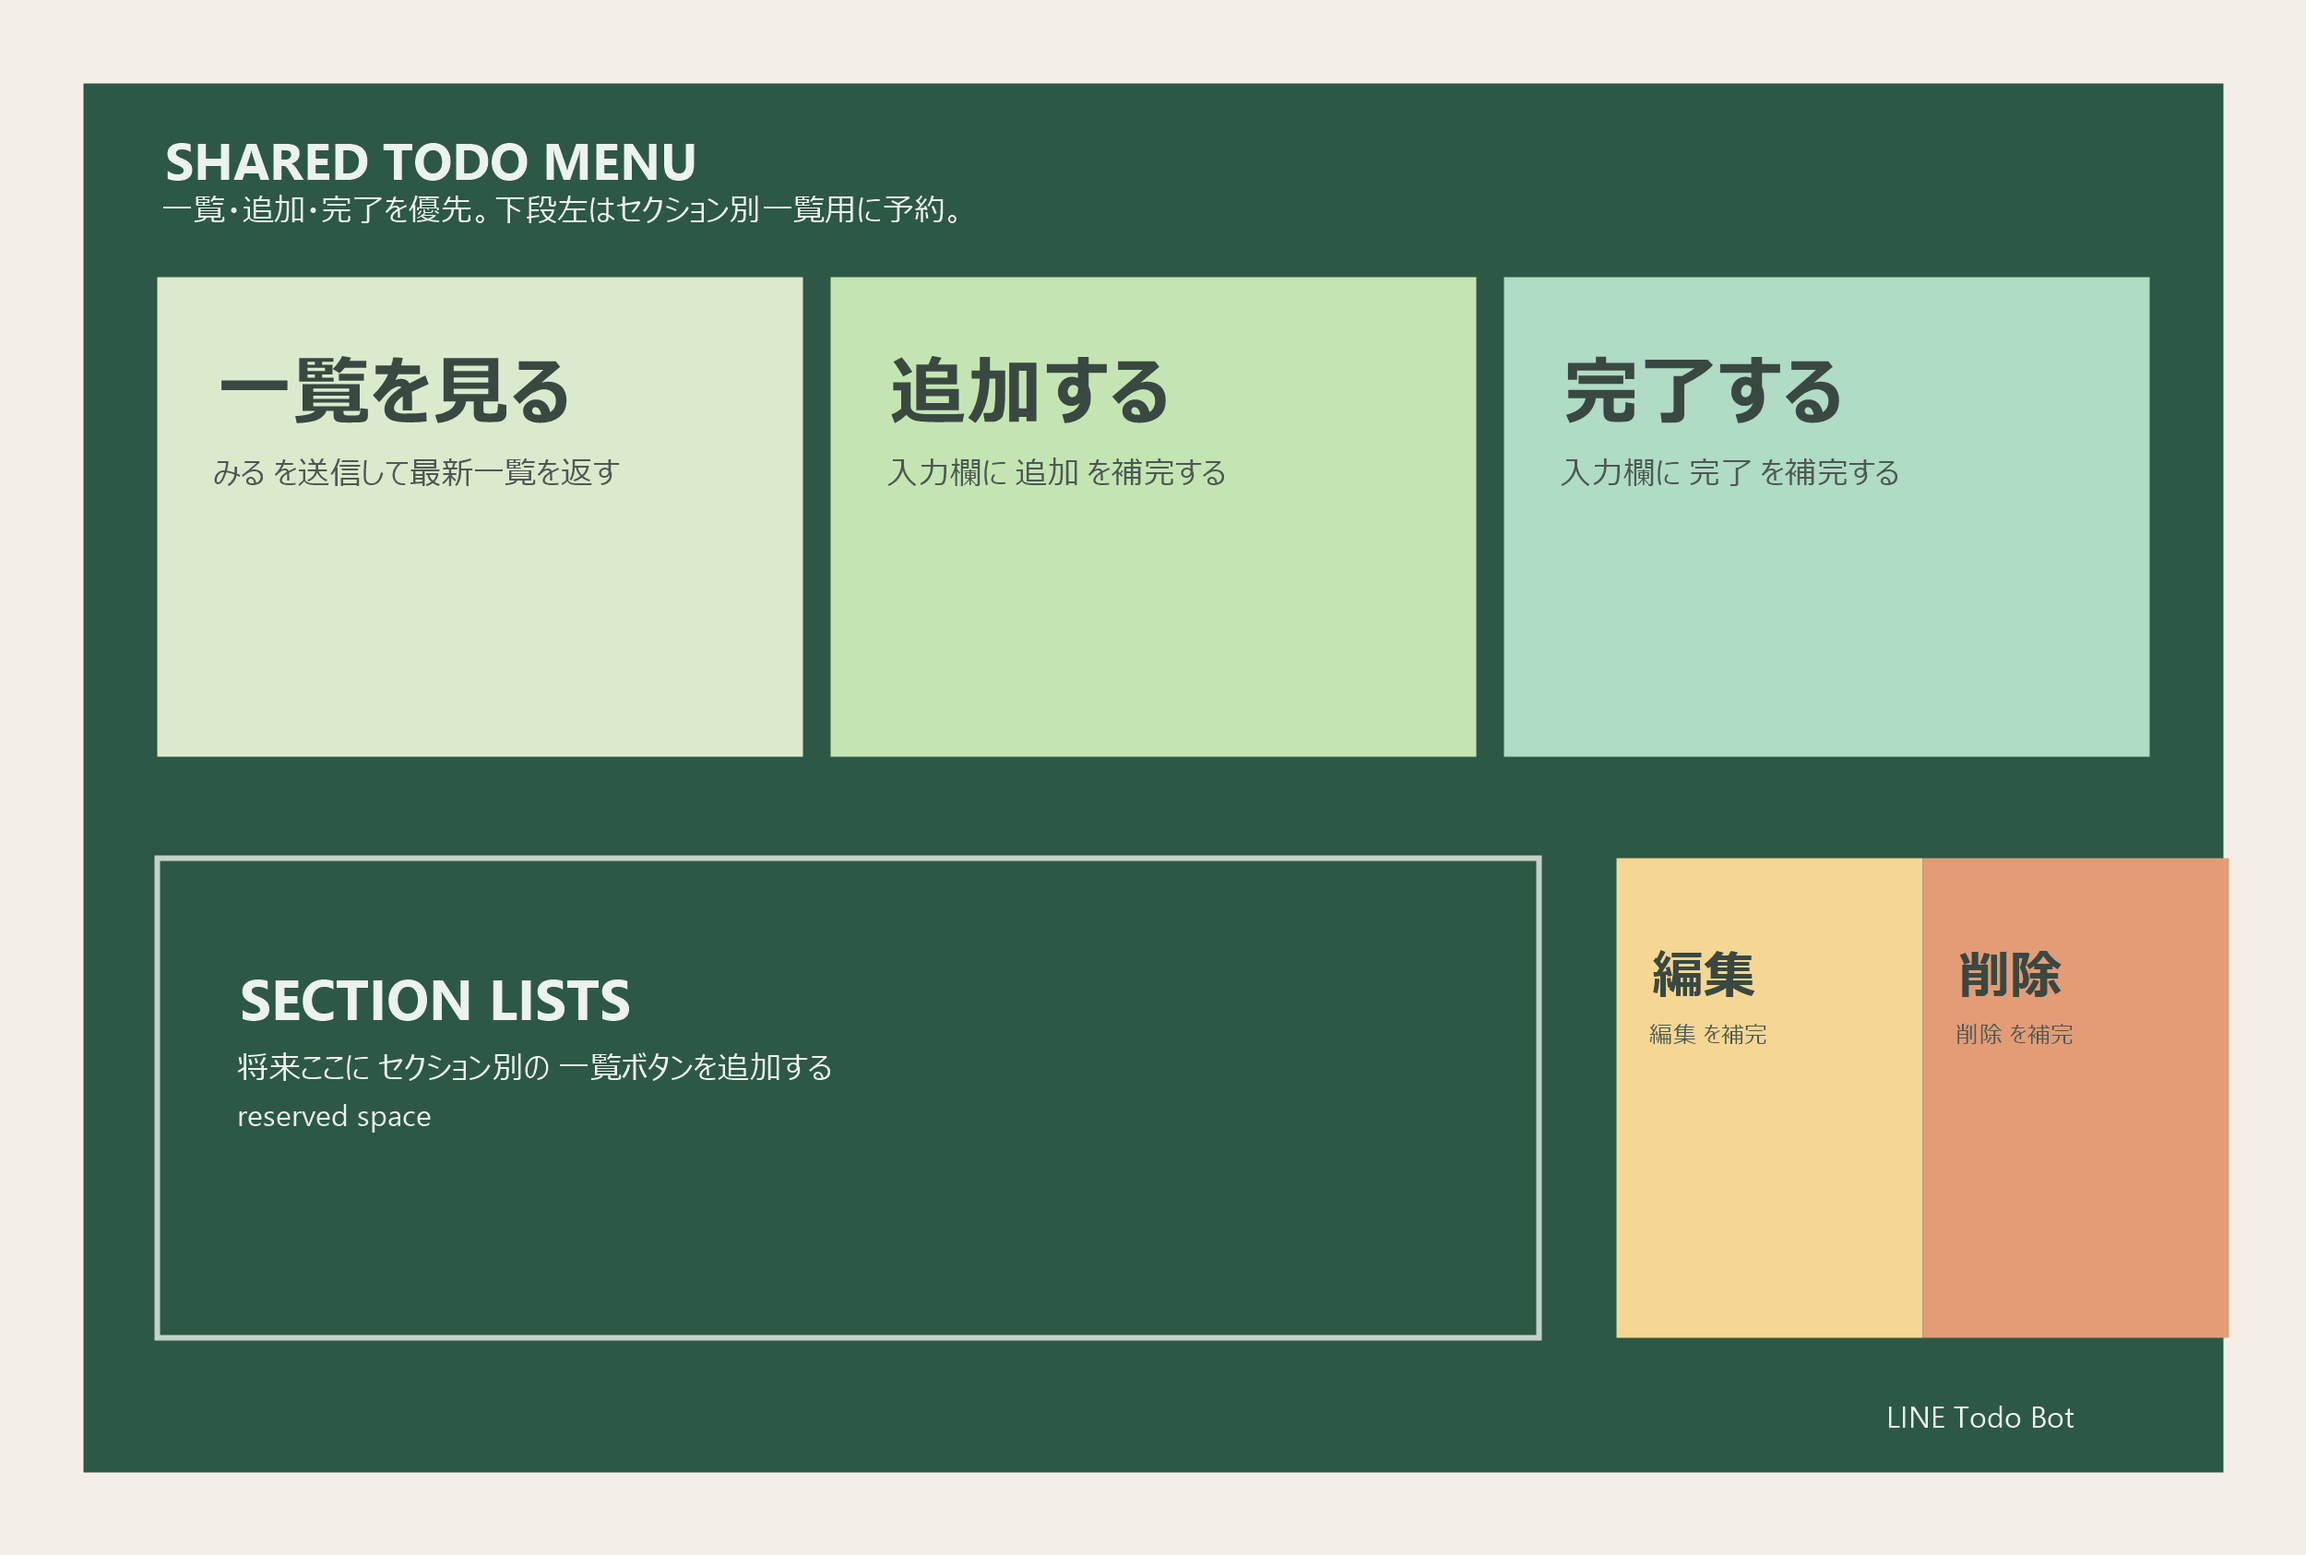
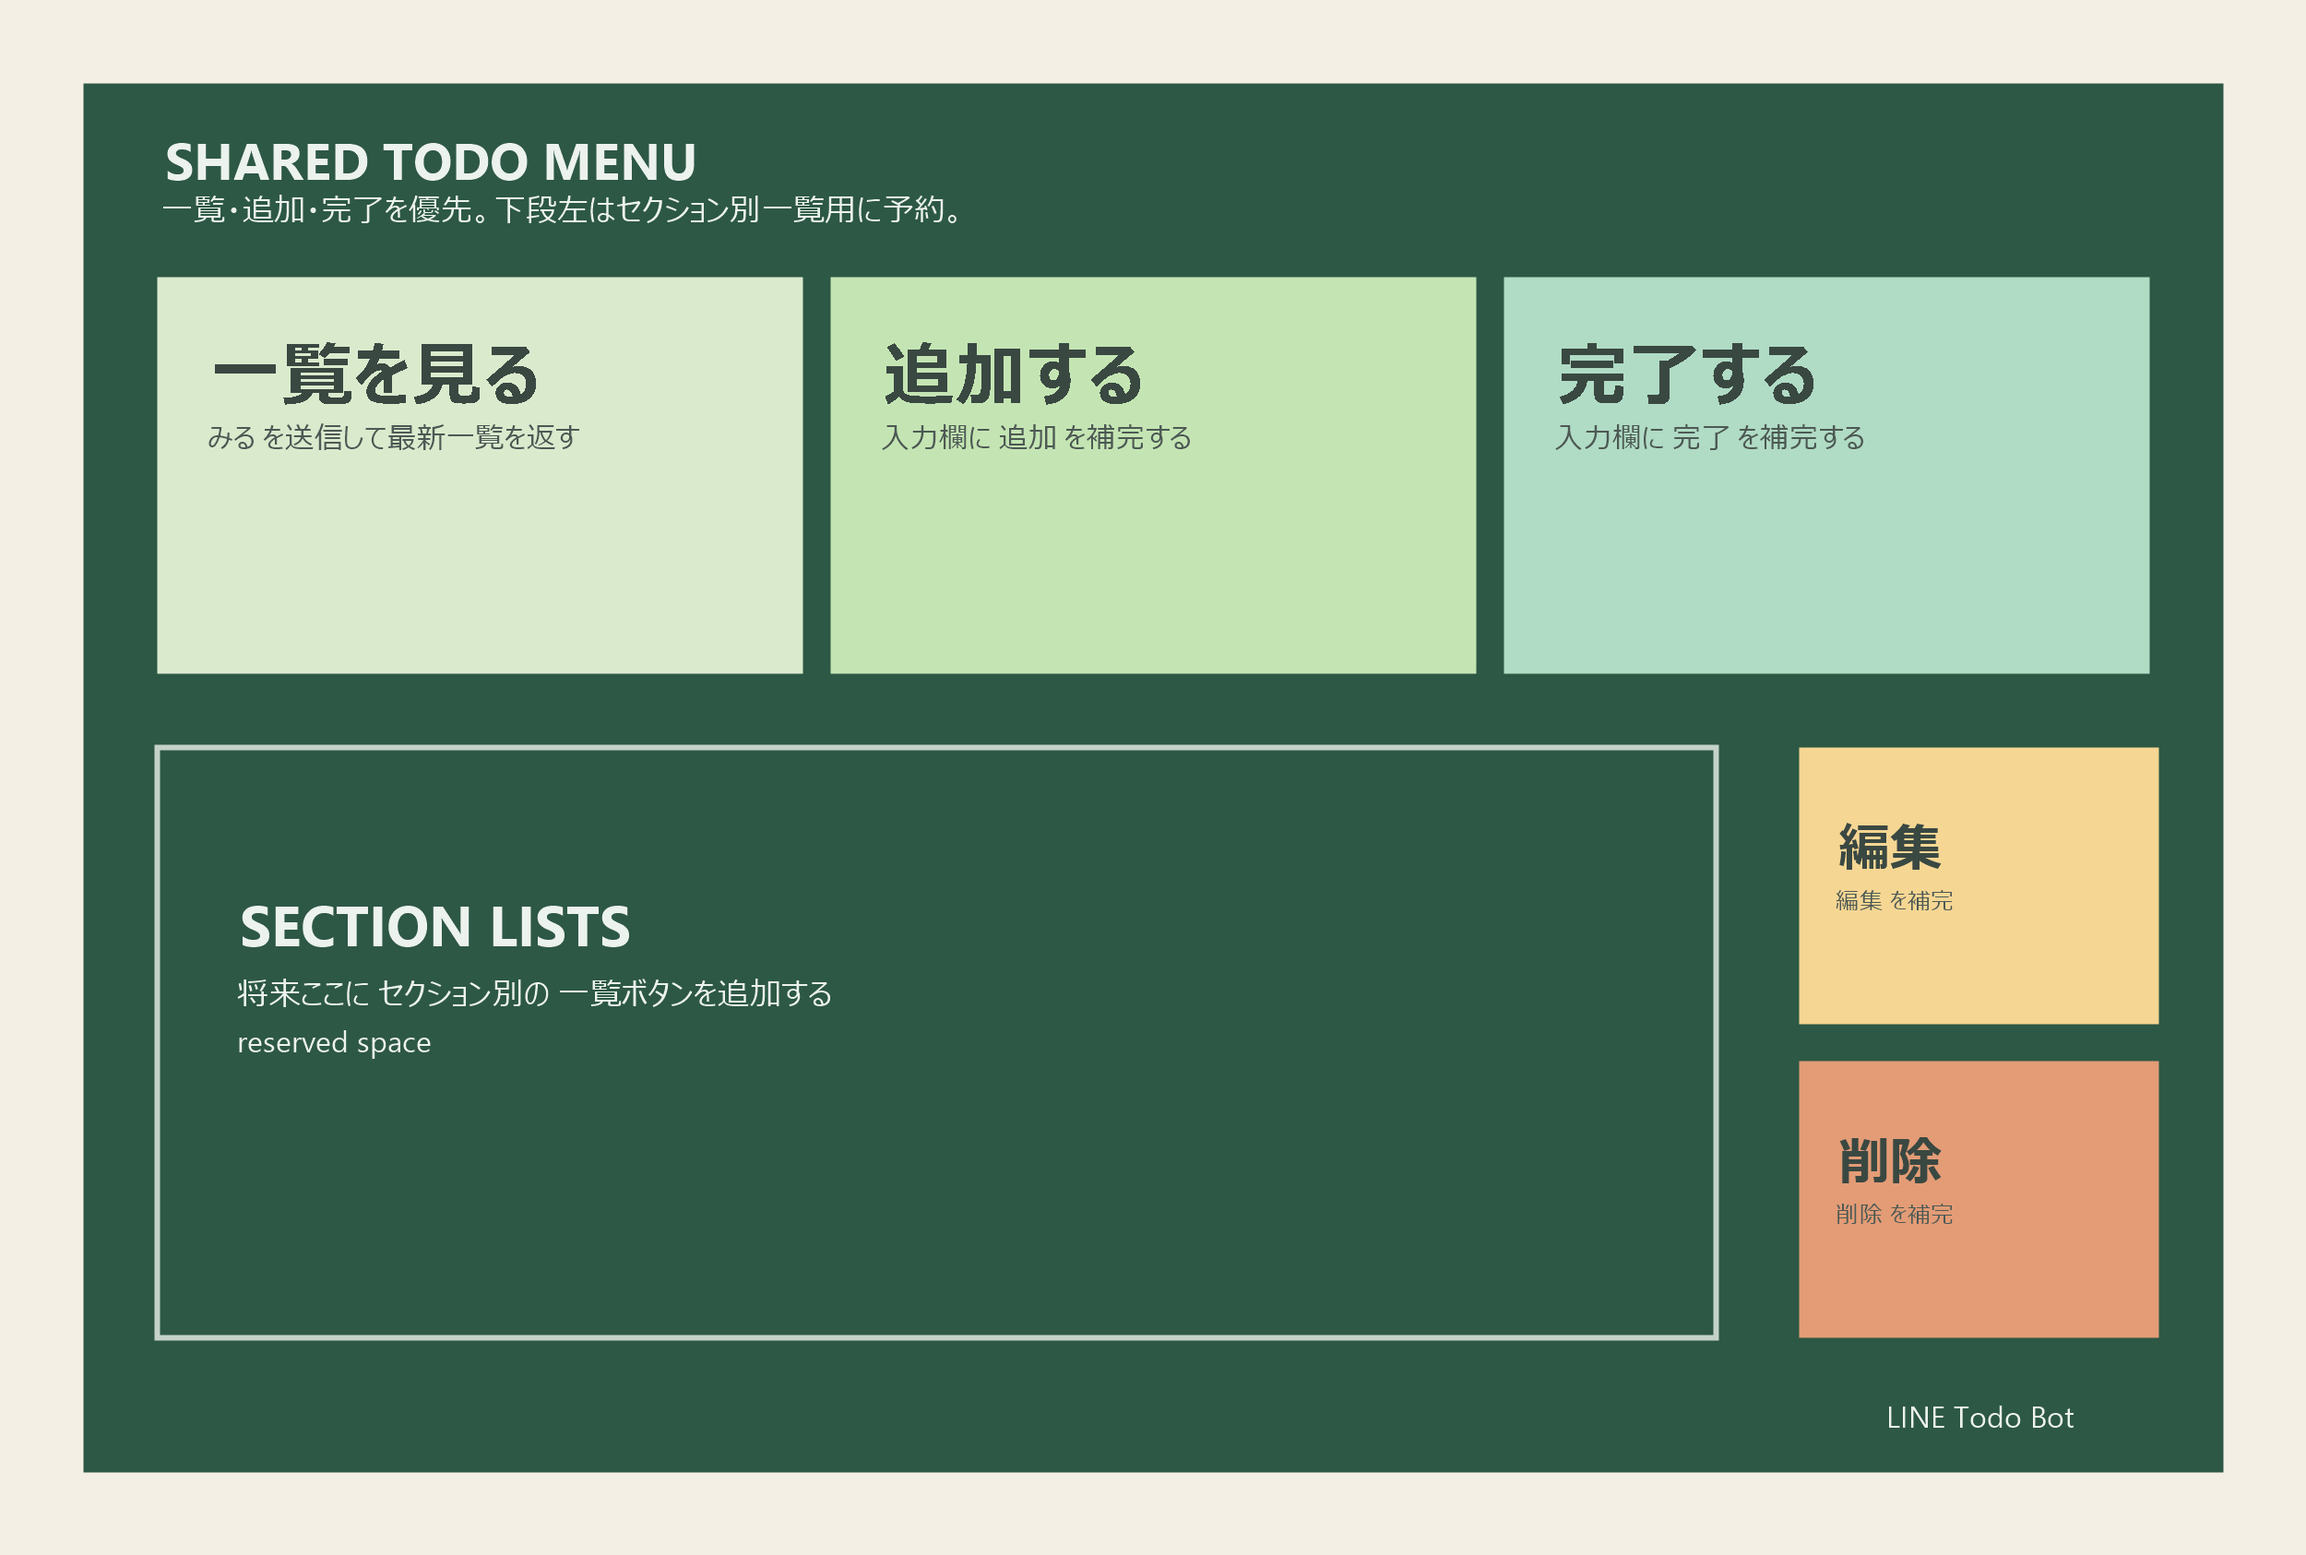
style: adjust rich menu layout

diff --git a/app/test/rich-menu-config.test.ts b/app/test/rich-menu-config.test.ts
@@ -28,7 +28,7 @@ describe("default rich menu definition", () => {
             x: 0,
             y: 0,
             width: 834,
-            height: 843
+            height: 720
           },
           action: {
             type: "message",
@@ -41,7 +41,7 @@ describe("default rich menu definition", () => {
             x: 834,
             y: 0,
             width: 833,
-            height: 843
+            height: 720
           },
           action: {
             type: "postback",
@@ -56,7 +56,7 @@ describe("default rich menu definition", () => {
             x: 1667,
             y: 0,
             width: 833,
-            height: 843
+            height: 720
           },
           action: {
             type: "postback",
@@ -68,10 +68,10 @@ describe("default rich menu definition", () => {
         },
         {
           bounds: {
-            x: 1668,
-            y: 843,
-            width: 416,
-            height: 843
+            x: 1860,
+            y: 720,
+            width: 480,
+            height: 483
           },
           action: {
             type: "postback",
@@ -83,10 +83,10 @@ describe("default rich menu definition", () => {
         },
         {
           bounds: {
-            x: 2084,
-            y: 843,
-            width: 416,
-            height: 843
+            x: 1860,
+            y: 1203,
+            width: 480,
+            height: 483
           },
           action: {
             type: "postback",
